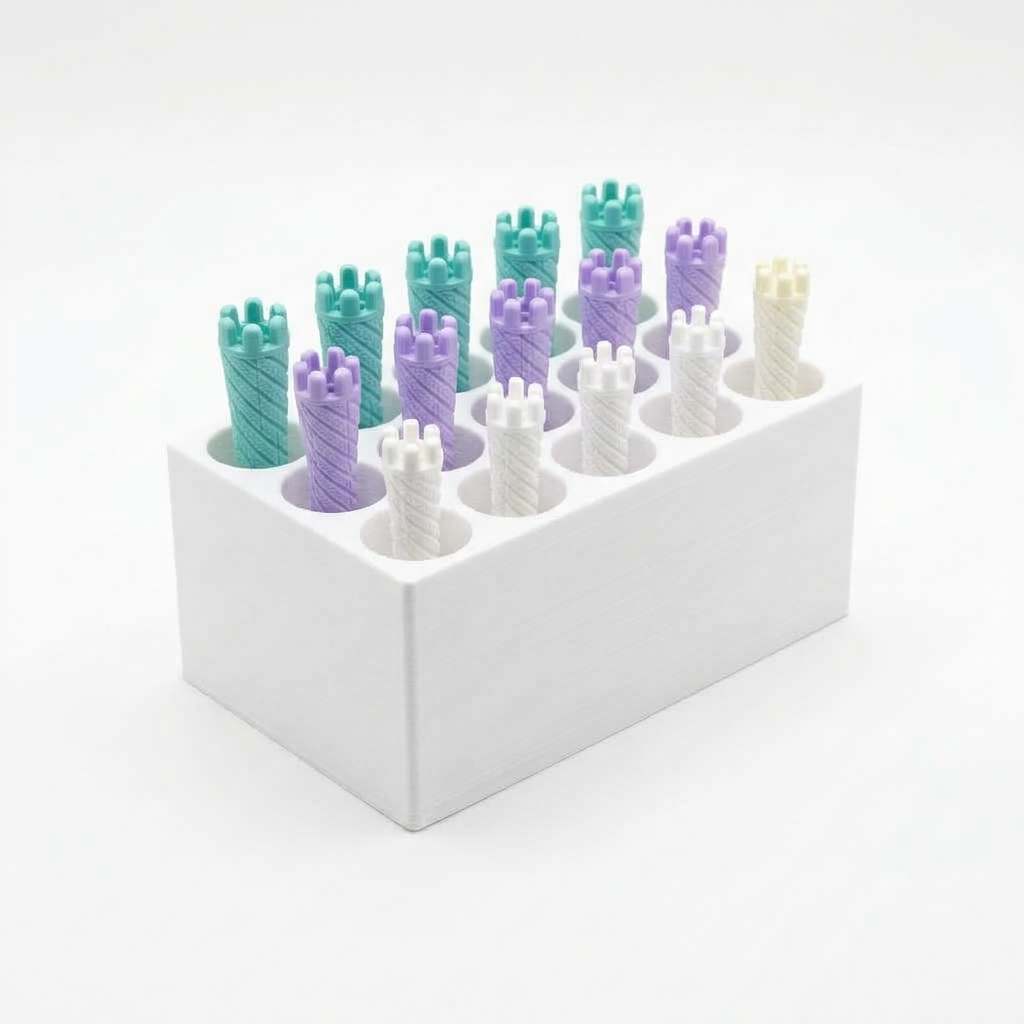
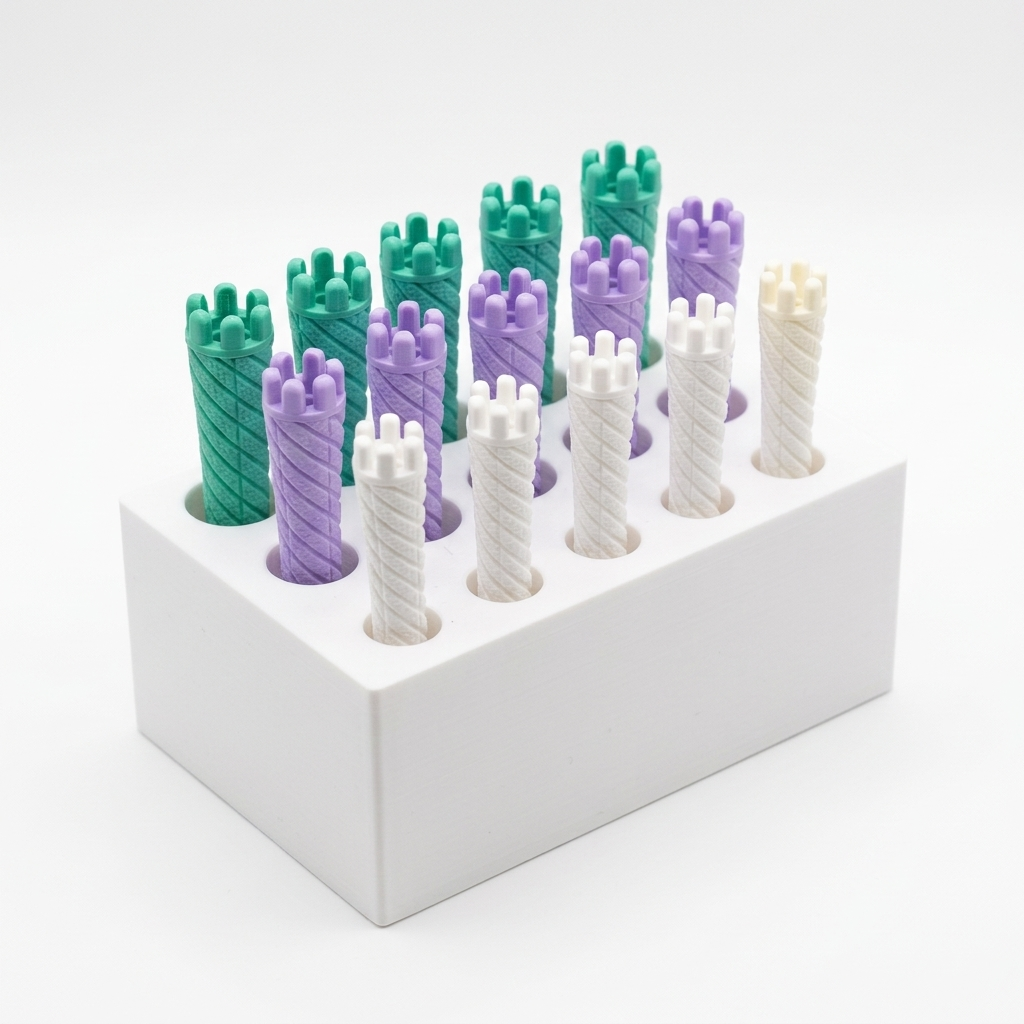
fix: オールパーパス用ショートロッド立ての穴の径とロッドフィット感を実物写真に厳格に合わせて再生成

Changed region(s): [[0.1562, 0.125, 0.9062, 0.9062], [0.0938, 0.5, 0.1875, 0.6562], [0.125, 0.7188, 0.1875, 0.75]]

diff --git a/js/app.js b/js/app.js
@@ -143,7 +143,7 @@ const FALLBACK_PRODUCTS = [
         "angle": "Perspective"
       },
       {
-        "url": "assets/images/item-short-stand-2.jpg?v=3",
+        "url": "assets/images/item-short-stand-2.jpg?v=4",
         "label": "ロッド収納イメージ（グリーン×5・バイオレット×5・ホワイト×5）",
         "angle": "With Rods"
       },
